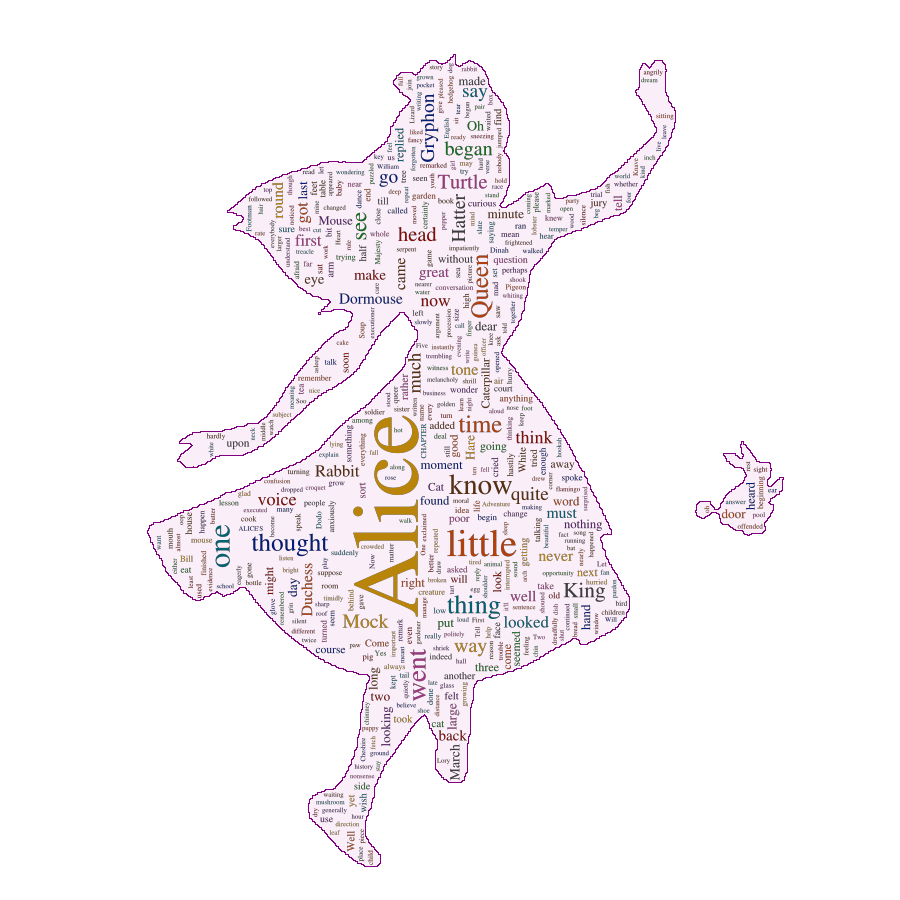
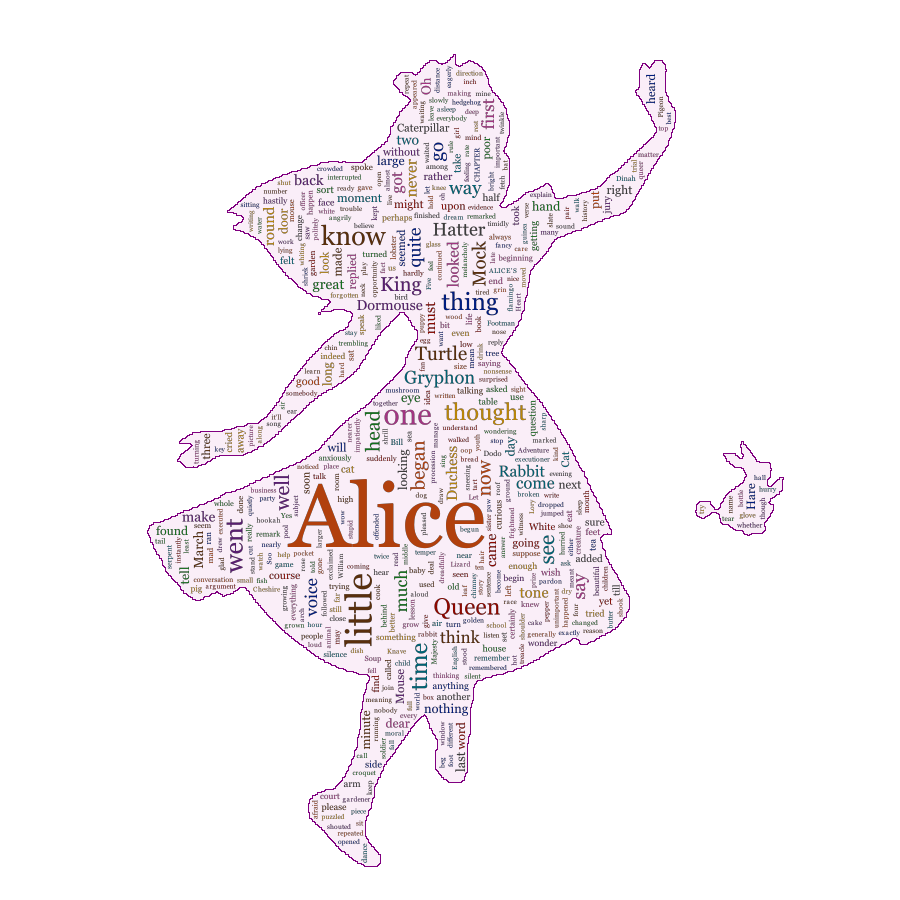
update to WordCloud v0.6.1

Changed region(s): [[0.1556, 0.0622, 0.7467, 0.9644], [0.7778, 0.5289, 0.8711, 0.5911], [0.2178, 0.4667, 0.3111, 0.5289]]

diff --git a/README.md b/README.md
@@ -1,5 +1,5 @@
 # WordCloud-Gallery
-This is a gallery of [WordCloud](https://github.com/guo-yong-zhi/WordCloud), which is automatically generated from `WordCloud.examples` (WordCloud v0.5.0).  Run `evalfile("generate.jl", ["doeval=true", "exception=true"])` in julia REPL to create this file.  
+This is a gallery of [WordCloud](https://github.com/guo-yong-zhi/WordCloud), which is automatically generated from `WordCloud.examples` (WordCloud v0.6.1).  Run `evalfile("generate.jl", ["doeval=true", "exception=true"])` in julia REPL to create this file.  
 - [alice](#alice)
 - [animation](#animation)
 - [benchmark](#benchmark)
@@ -51,7 +51,7 @@ using WordCloud
 using Random
 
 println("This test will take several minutes")
-
+@show Threads.nthreads()
 words = [Random.randstring(rand(1:8)) for i in 1:200]
 weights = randexp(length(words)) .* 2000 .+ rand(20:100, length(words));
 wc1 = wordcloud(words, weights, mask=shape(ellipse, 500, 500, color=0.15), angles=(0,90,45), density=0.55)
@@ -65,15 +65,23 @@ weights = randexp(length(words)) .* 2000 .+ rand(20:100, length(words));
 wc3 = wordcloud(words, weights, mask=shape(box, 2000, 2000, 100, color=0.15), angles=(0,90,45))
 
 wcs = [wc1, wc1, wc2, wc3] #repeat wc1 to trigger compiling
-ts = [WordCloud.trainepoch_E!,WordCloud.trainepoch_EM!,WordCloud.trainepoch_EM2!,WordCloud.trainepoch_EM3!,
-        WordCloud.trainepoch_P!,WordCloud.trainepoch_P2!,WordCloud.trainepoch_Px!]
+ts = [WordCloud.Stuffing.trainepoch_E!,WordCloud.Stuffing.trainepoch_EM!,
+WordCloud.Stuffing.trainepoch_EM2!,WordCloud.Stuffing.trainepoch_EM3!,
+WordCloud.Stuffing.trainepoch_P!,WordCloud.Stuffing.trainepoch_P2!,WordCloud.Stuffing.trainepoch_Px!]
+es = [[] for i in 1:length(wcs)]
 for (i,wc) in enumerate(wcs)
     println("\n\n", "*"^10, "wordcloud - $(length(wc.words)) words on mask$(size(wc.mask))", "*"^10)
     for (j,t) in enumerate(ts)
         println("\n", i-1, "==== ", j, "/", length(ts), " ", nameof(t))
         placement!(wc)
-        @time generate!(wc, trainer=t, retry=1)
+        @time e = @elapsed generate!(wc, trainer=t, retry=1)
+        push!(es[i],nameof(t)=>e)
     end
+end
+println("SUMMARY")
+for (i,(wc,e)) in enumerate(zip(wcs, es))
+    println("##$(i-1) $(length(wc.words))@$(size(wc.mask)):")
+    println(repr("text/plain", e))
 end
 ```  
 # compare
@@ -198,13 +206,13 @@ end
 docs = (readdir(joinpath(dirname(Sys.BINDIR), "share/doc/julia/html/en", dir), join=true) for dir in ["manual", "base", "stdlib"])
 docs = docs |> Iterators.flatten
 
-words, weights = processtext(maxnum=300, maxweight=1) do
+words, weights = processtext(maxnum=400, maxweight=1) do
     counter = Dict{String,Int}()
     for doc in docs
         content = html2text(open(doc))
         countwords(content, counter=counter)
     end
-    counter
+    counter |> casemerge!
 end
 
 wc = wordcloud(
@@ -218,6 +226,8 @@ wc = wordcloud(
     transparentcolor=(0,0,0,0),
 )
 setangles!(wc, "julia", 0)
+# setangles!(wc, "function", 45)
+# initimage!(wc, "function")
 setcolors!(wc, "julia", (0.796,0.235,0.20))
 # setfonts!(wc, "julia", "forte")
 initimage!(wc, "julia")
@@ -227,6 +237,7 @@ sz1 = size(getimages(wc, "∴"))
 sz2 = size(getimages(wc, "julia"))
 y1, x1 = (size(wc.mask) .- (sz1[1], sz1[2]+sz2[2])) .÷ 2
 y2 = (size(wc.mask, 1) - sz2[1]) ÷ 2
+x1 = round(Int, x1 * 0.9)
 setpositions!(wc, "∴", (x1, y1))
 setpositions!(wc, "julia", (x1+sz1[2], y2))
 
@@ -259,7 +270,7 @@ wc
 ```  
 ![](lettermask.svg)  
 # pattern
-The elements in the output image don't have to be text, and shapes are OK
+The [engine](https://github.com/guo-yong-zhi/Stuffing.jl) is designed for general purpose, so the outputs don't have to be text, and shapes are OK
 ```julia
 using WordCloud
 
@@ -276,11 +287,14 @@ wc = wordcloud(
 
 And, you should manually initialize images for the placeholders, instead of calling `initimages!`  
 ```julia
+dens = 0.6
+sz = 3expm1.(rand(l)) .+ 1
+sz ./= √(sum(π * (sz ./ 2).^2 ./ dens) / prod(size(wc.mask))) # set a proper size according to the density
 ## svg version
-#shapes = [shape(ellipse, repeat([floor(20expm1(rand())+5)],2)..., color=rand(sc)) for i in 1:l]
+#shapes = [shape(ellipse, round(sz[i]), round(sz[i]), color=rand(sc)) for i in 1:l]
 #setsvgimages!(wc, :, shapes)
 ## bitmap version
-shapes = WordCloud.svg2bitmap.([shape(ellipse, repeat([floor(15expm1(rand())+5)],2)..., color=rand(sc)) for i in 1:l])
+shapes = WordCloud.svg2bitmap.([shape(ellipse, round(sz[i]), round(sz[i]), color=rand(sc)) for i in 1:l])
 setimages!(wc, :, shapes)
 
 setstate!(wc, :initimages!) #set the state flag after manual initialization
@@ -324,7 +338,7 @@ wc = wordcloud(
 setwords!(wc, "Alice", "Alice in Wonderland") # replace the word 'Alice' with 'Alice in Wonderland'
 setangles!(wc, "Alice in Wonderland", 0) # make it horizontal
 setcolors!(wc, "Alice in Wonderland", "purple");
-setfontsizes!(wc, "Alice in Wonderland", 2.1size(wc.mask, 2)/length("Alice in Wonderland")) # set a big font size
+setfontsizes!(wc, "Alice in Wonderland", 2.05size(wc.mask, 2)/length("Alice in Wonderland")) # set a big font size
 initimage!(wc, "Alice in Wonderland") # init it after adjust it's style
 setpositions!(wc, "Alice in Wonderland", reverse(size(wc.mask)) .÷ 2, type=setcenter!) # center it
 
